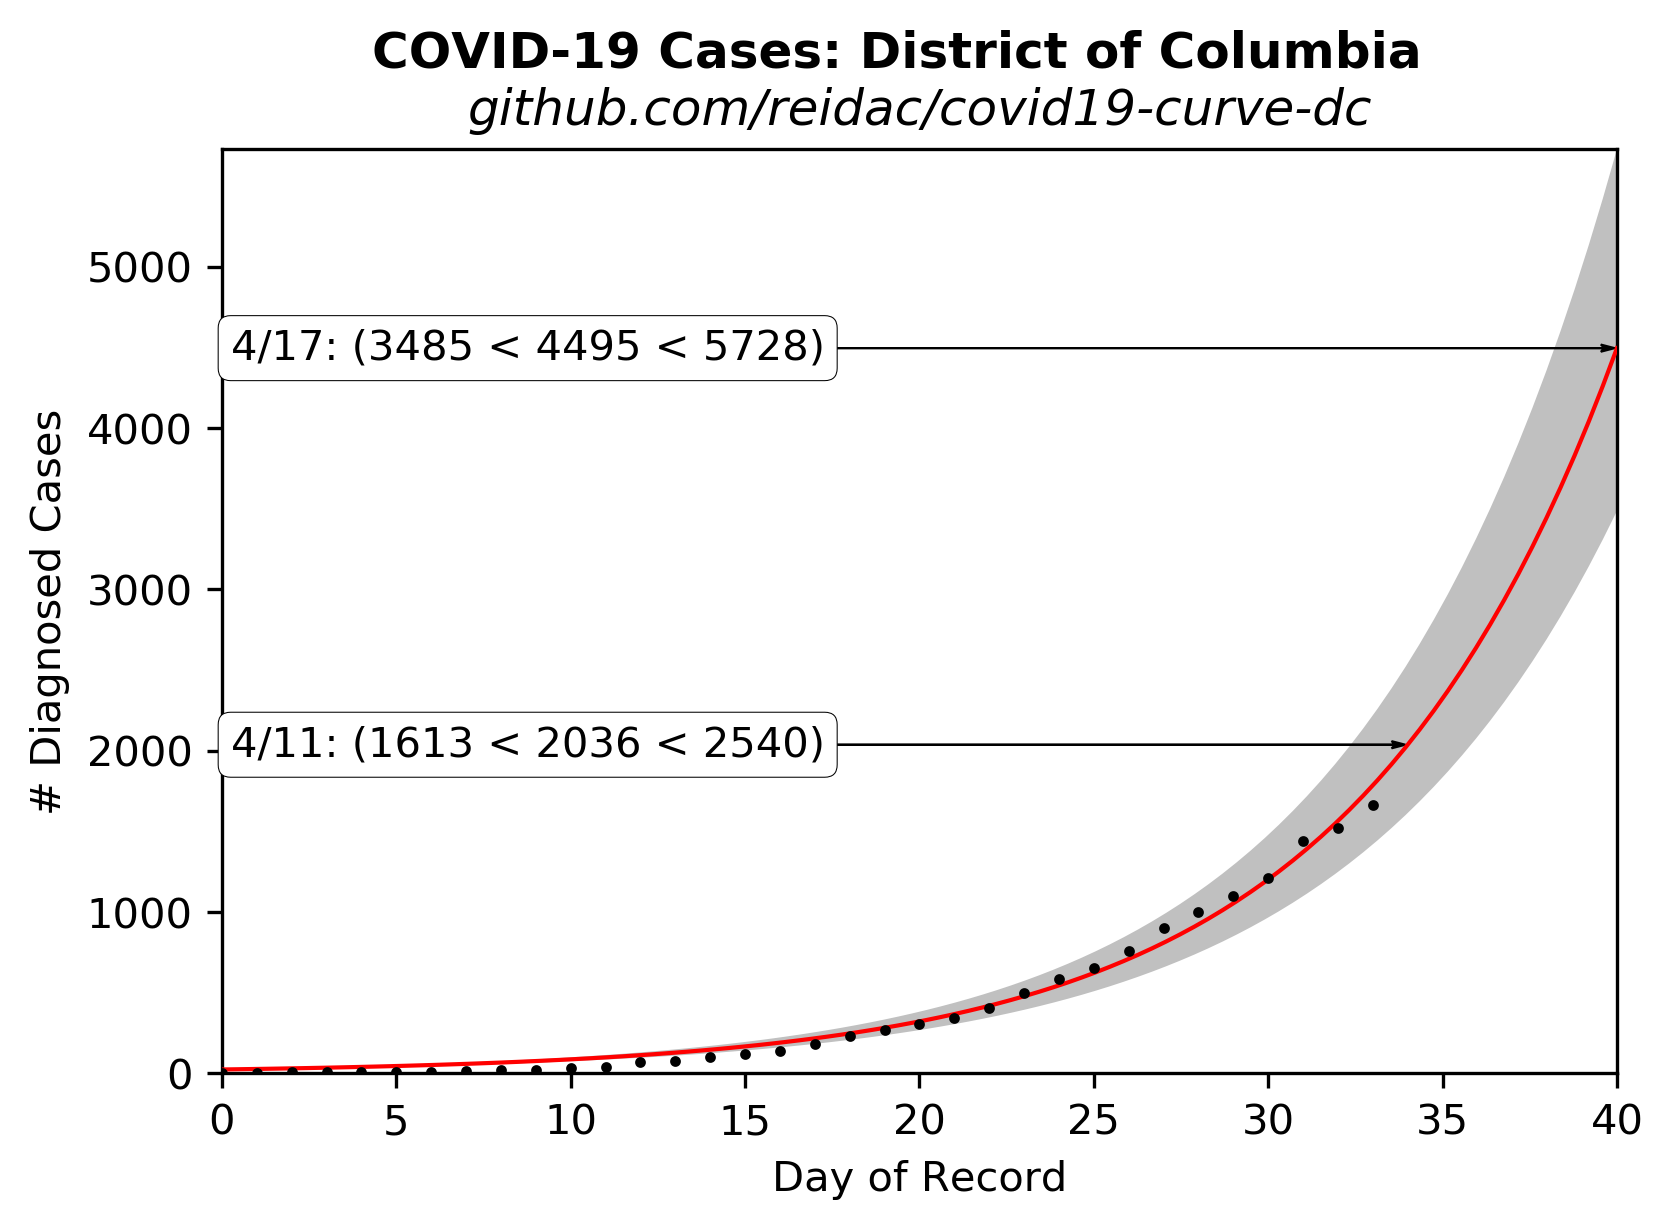
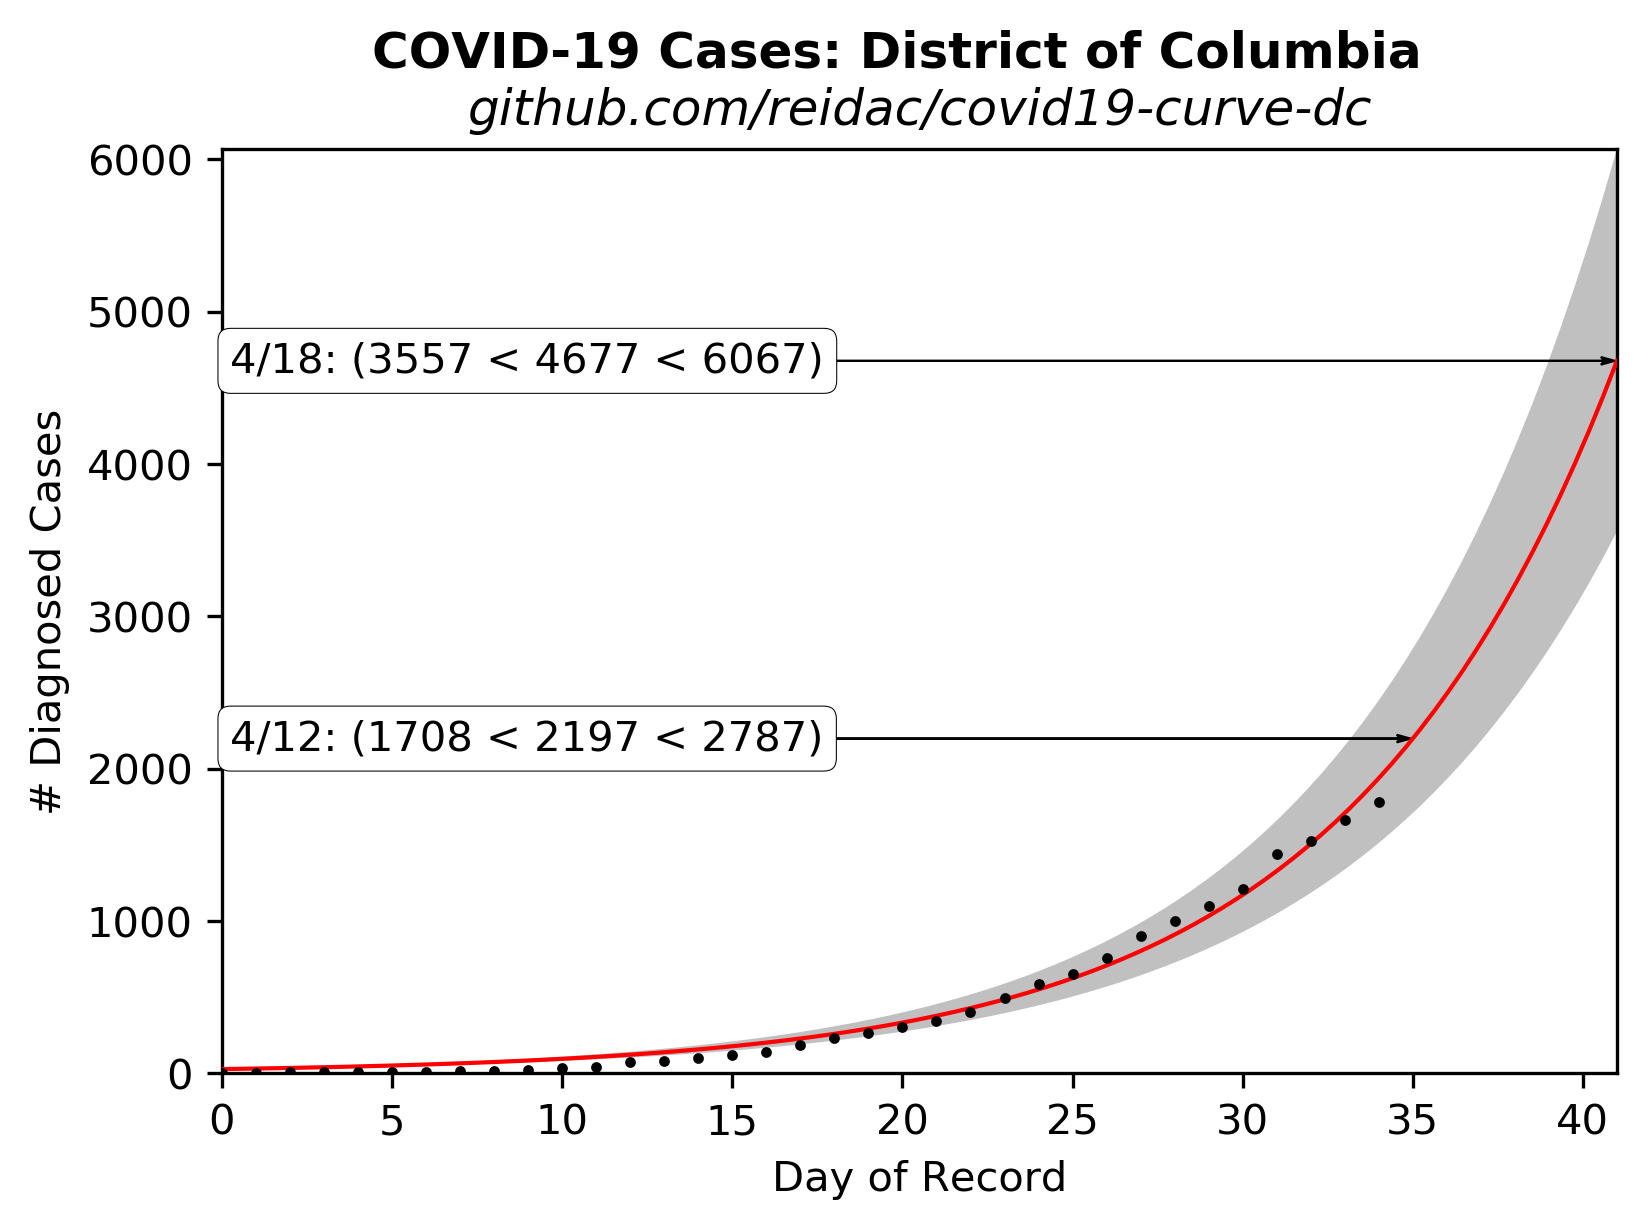
Full bounds checking for the error bars.

diff --git a/model.py b/model.py
@@ -12,12 +12,27 @@ class ModelError(Exception):
         self.clstr = clstr
     def __str__(self):
         return "ModelError: Attempt to evaluate {0} before fitting.".format(self.clstr)
-    
+
+
 class Model:
+    def _allsigns(n):
+        signset = [-1,1]
+        if (n==1):
+            for s in signset:
+                yield [s]
+        else:
+            for s in signset:
+                for tail in Model._allsigns(n-1):
+                    yield [s]+tail
+                    
     def __init__(self,d):
         self.fitted = False
         self.params = [1]*d
         self.deltas = [0]*d
+        self.sglist = []
+        for sg in Model._allsigns(len(self.deltas)):
+            self.sglist.append(sg)
+
     def fit(self,xdata,ydata):
         popt,pcov = curve_fit(self.model, xdata, ydata,
                               p0=self.params,sigma=None,method="lm",
@@ -30,17 +45,48 @@ class Model:
             return self.model(t,*self.params)
         else:
             raise ModelError(str(self.__class__))
+        
+    def _evaluate_all_deltas(self,t):
+        # Returns a list of all the hypercube corner points.
+        # Because of the trickery, this function can only take scalar
+        # arguments for t.
+
+        # Generator for the possible sign combinations.
+        def _allsigns(n):
+            signset = [-1,1]
+            if (n==1):
+                for s in signset:
+                    yield [s]
+            else:
+                for s in signset:
+                    for tail in _allsigns(n-1):
+                        yield [s]+tail
+        
+        res = []
+        for sg in _allsigns(len(self.deltas)):
+            params = [ p+s*d for (p,s,d) in zip(self.params,sg,self.deltas) ]
+            res.append(self.model(t,*params))
+        return res
+        
     def evaluate_h(self,t):
         if (self.fitted):
-            h_params = [x+d for (x,d) in zip(self.params,self.deltas)]
-            return self.model(t,*h_params)
+            if type(t) is np.ndarray:  # AAAAAAARGH!
+                return np.array( [max(self._evaluate_all_deltas(ti)) for
+                                      ti in t] )
+            else:
+                return max(self._evaluate_all_deltas(t))
         else:
             raise ModelError(str(self.__class__))
+        
     def evaluate_l(self,t):
         if (self.fitted):
-            l_params = [x-d for (x,d) in zip(self.params,self.deltas)]
-            return self.model(t,*l_params)
-        else:raise ModelError(str(self.__class__))
+            if type(t) is np.ndarray: # See above.
+                return np.array( [min(self._evaluate_all_deltas(ti)) for
+                                  ti in t])
+            else:
+                return min(self._evaluate_all_deltas(t))
+        else:
+            raise ModelError(str(self.__class__))
                             
 
 class Exponential(Model):
@@ -70,8 +116,8 @@ class Logistic(Model):
 # without parameter arguments, and the last call should
 # return a vector of evaluations with the fitted parameters.
 if __name__=="__main__":
-    x = np.array([0.0, 1.0, 2.0, 3.0,4.0])
-    y = np.array([1.0, 1.1, 1.2, 1.3,1.4])
+    xvs = np.array([0.0, 1.0, 2.0, 3.0,4.0])
+    yvs = np.array([1.0, 1.1, 1.2, 1.3,1.4])
 
     m1 = Exponential()
     try:
@@ -79,21 +125,27 @@ if __name__=="__main__":
     except ModelError as m:
         print(m)
 
-    m1.fit(x,y)
+    m1.fit(xvs,yvs)
     print (m1.evaluate(4.0))
     print (m1.evaluate_h(4.0))
     print (m1.evaluate_l(4.0))
+
+    print (m1.evaluate_l(xvs))
+    print (m1.evaluate(xvs))
+    print (m1.evaluate_h(xvs))
     
     m2 = Logistic()
     try:
         m2.evaluate(0.0)
     except ModelError as m:
         print(m)
-
-    m2.fit(x,y)
+        
+    m2.fit(xvs,yvs)
     print (m2.evaluate(4.0))
     print (m2.evaluate_h(4.0))
     print (m2.evaluate_l(4.0))
 
-    print (m2.evaluate(x))
+    print (m2.evaluate_l(xvs))
+    print (m2.evaluate(xvs))
+    print (m2.evaluate_h(xvs))
     
